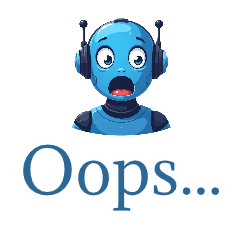
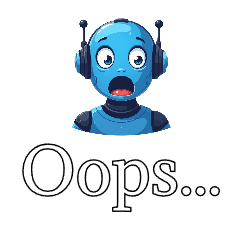
css 마무리

Changed region(s): [[0.0868, 0.56, 0.9256, 0.868]]

diff --git a/src/Pages/ErrorPage.tsx b/src/Pages/ErrorPage.tsx
@@ -1,9 +1,23 @@
+import styled from 'styled-components';
+
+const Container = styled.div`
+  @media (min-width: 480px) and (max-width: 900px) {
+    display: flex;
+    align-items: center;
+  }
+`;
+const ReturnButton = styled.button`
+  border-radius: 10px;
+  background-color: white;
+  font-size: 2rem;
+`;
+
 export default function ErrorPage({ onClick }: { onClick: (page: 'Main' | 'Contents') => void }) {
   return (
-    <div>
+    <Container>
       <h3>에러가 발생했어요</h3>
       <img src='img/oops.png' alt='에러 이미지' />
-      <button onClick={() => onClick('Main')}>홈화면으로 돌아가기</button>
-    </div>
+      <ReturnButton onClick={() => onClick('Main')}>홈화면으로 돌아가기</ReturnButton>
+    </Container>
   );
 }

diff --git a/src/components/ContentsButton.tsx b/src/components/ContentsButton.tsx
@@ -36,7 +36,7 @@ const Button = styled.button<IButtonProps>`
     font-size: 0.8rem;
   }
 
-  // 화면 크기가 768px 이상일 때
+  // 화면 크기가 900px 이상일 때
   @media (min-width: 900px) {
     font-size: 1.4rem;
     height: 7.5rem;
